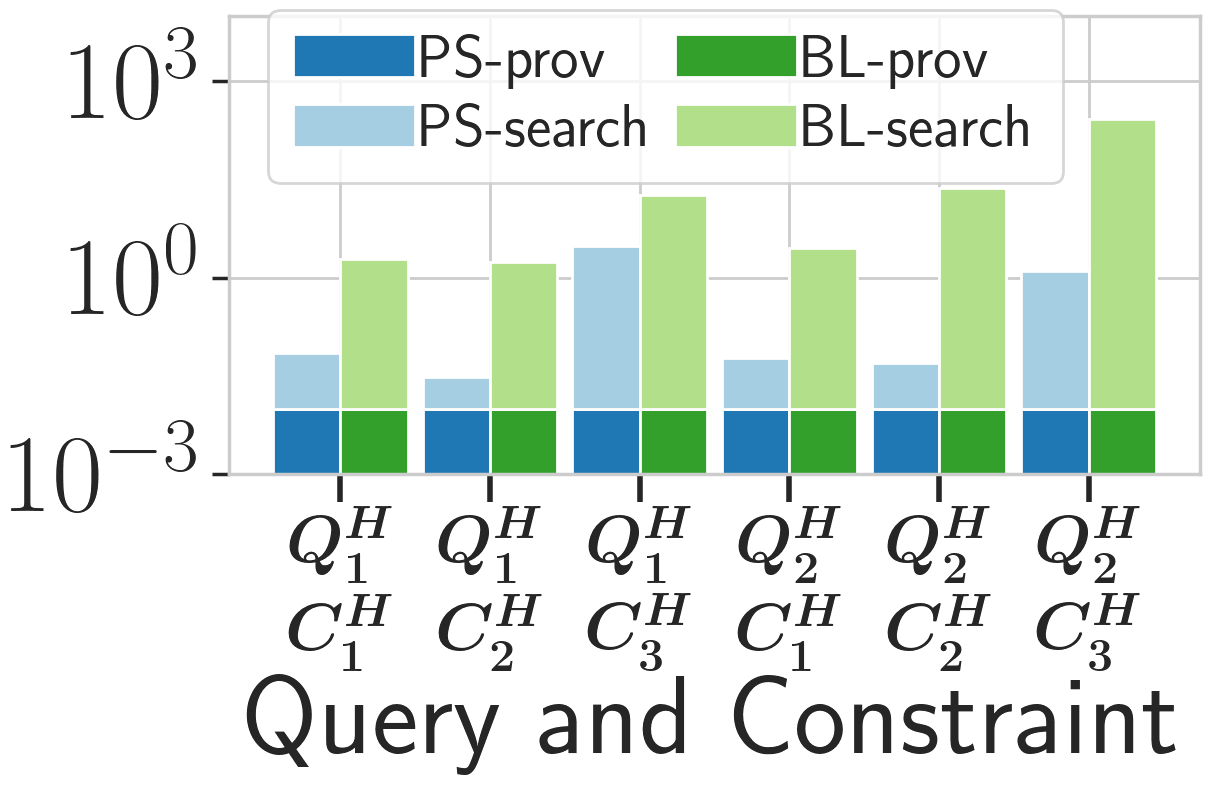
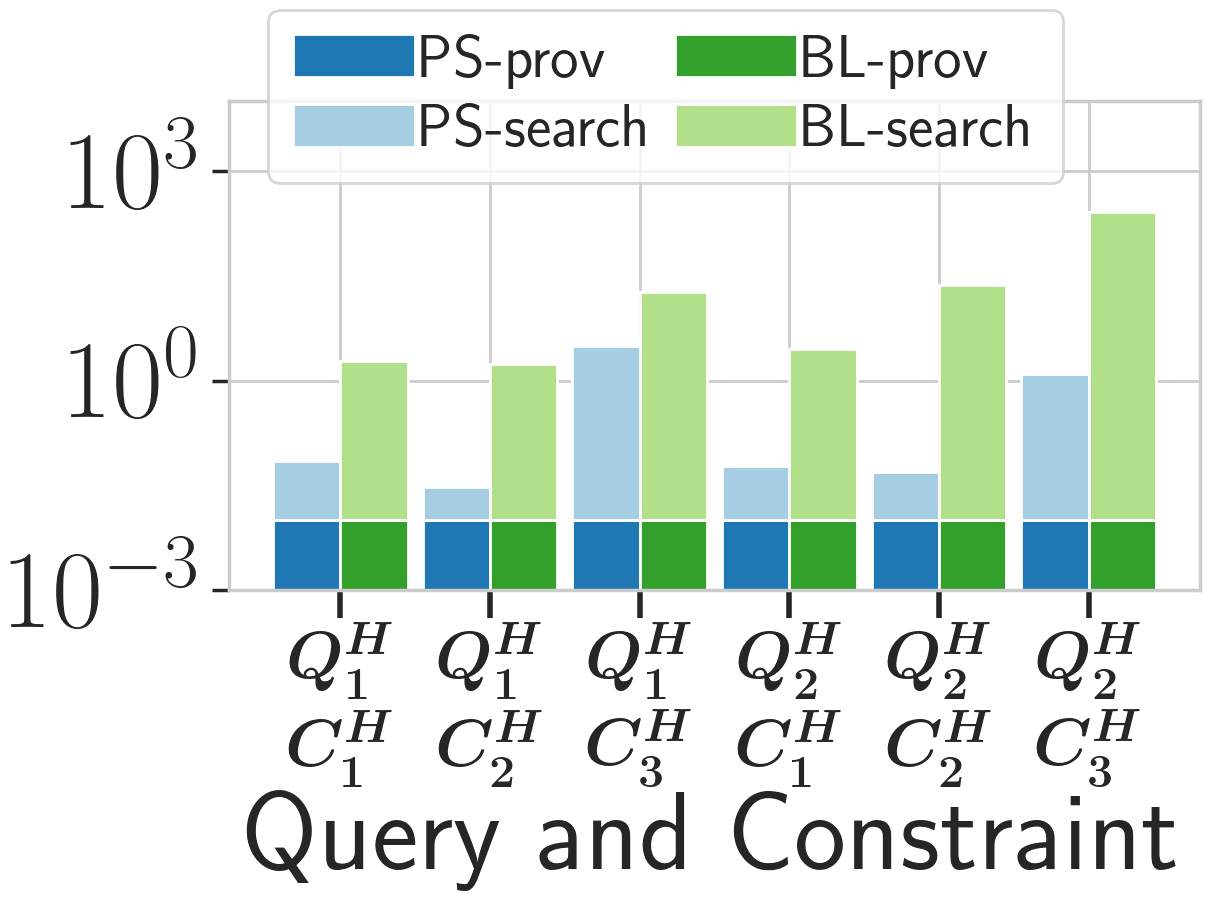
fig

diff --git a/Experiment/healthcare/exp_2_runningtime/fig.py b/Experiment/healthcare/exp_2_runningtime/fig.py
@@ -19,7 +19,7 @@ plt.rc('font', size=70, weight='bold')
 color = ['C1', 'C0', 'C3', 'C2']
 label = ['PS-prov', "PS-search", "BL-prov", "BL-search"]
 
-f_size = (14, 10)
+f_size = (14, 12)
 
 x_list = list()
 x_naive = list()
@@ -83,7 +83,7 @@ plt.xlabel('Query and Constraint', fontsize=80, weight='bold')
 # plt.ylabel('Running time (s)')
 plt.yscale('log')
 # plt.legend(loc='upper right', bbox_to_anchor=(1, 1.05), ncol=2, fontsize=40)
-lgnd = plt.legend(loc='upper center', bbox_to_anchor=(0.45, 1.08), fontsize=44, ncol=2, labelspacing=0.25,
+lgnd = plt.legend(loc='upper center', bbox_to_anchor=(0.45, 1.25), fontsize=44, ncol=2, labelspacing=0.25,
                   handletextpad=0.1, markerscale=0.5, columnspacing=0.3)
 
 plt.tight_layout()
